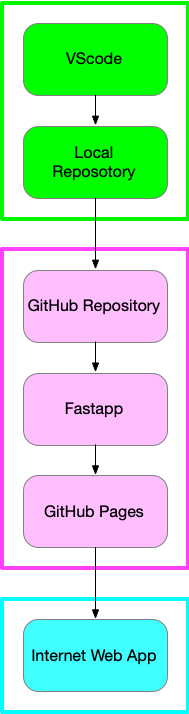
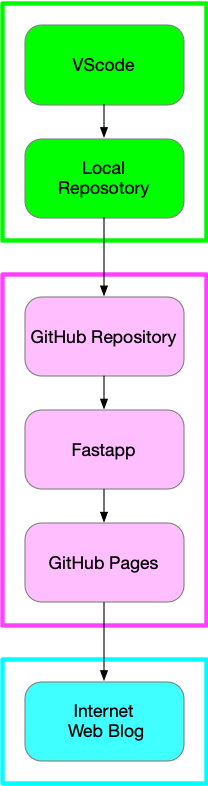
deploy: 1216c57b9d287a75da57a1649b116e1b303eda8c

diff --git a/blog/vscode/git/github/fastpages/github pages/2020/09/03/TEST2.html b/blog/vscode/git/github/fastpages/github pages/2020/09/03/TEST2.html
@@ -143,7 +143,7 @@ window.onload = wrap_img;
 <li class="toc-entry toc-h3"><a href="#some-helpful-resources">Some Helpful Resources</a></li>
 </ul>
 </li>
-<li class="toc-entry toc-h1"><a href="#editing-posts-to-web-pages">Editing Posts to Web Pages</a>
+<li class="toc-entry toc-h1"><a href="#from-edits-to-web-blog">From Edits to Web Blog</a>
 <ul>
 <li class="toc-entry toc-h2"><a href="#fastpages-posts">Fastpages Posts</a></li>
 <li class="toc-entry toc-h2"><a href="#vscode">VScode</a></li>
@@ -207,8 +207,8 @@ window.onload = wrap_img;
 
 <p><a href="http://jmcglone.com/guides/github-pages/">Creating and Hosting a Personal Site on GitHub</a></p>
 
-<h1 id="editing-posts-to-web-pages">
-<a class="anchor" href="#editing-posts-to-web-pages" aria-hidden="true"><span class="octicon octicon-link"></span></a>Editing Posts to Web Pages</h1>
+<h1 id="from-edits-to-web-blog">
+<a class="anchor" href="#from-edits-to-web-blog" aria-hidden="true"><span class="octicon octicon-link"></span></a>From Edits to Web Blog</h1>
 
 <p>The diagram illustrates a process for creating  fastpages posts</p>
 
